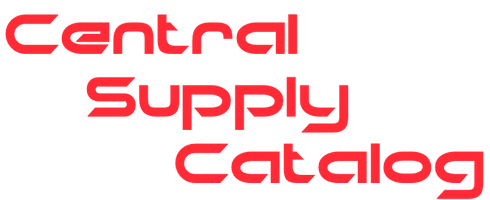
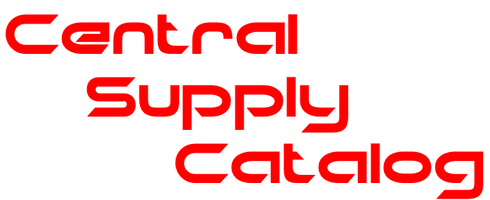
Restore stylized home title bitmap

Changed region(s): [[0.3367, 0.72, 1.0, 1.0], [0.1531, 0.36, 0.7347, 0.69], [0.0, 0.06, 0.6122, 0.27]]

diff --git a/src/css/main.css b/src/css/main.css
@@ -734,7 +734,7 @@ main .hero-section {
     height: 50vh;
   }
 }
-main .hero-section .hero-title {
+main .hero-section .hero-image {
   border: 4px solid #ccc;
   background: rgba(0, 0, 0, 0.5);
   border-radius: 1rem;
@@ -750,23 +750,9 @@ main .hero-section .hero-title {
     width: 80%;
   }
 }
-main .hero-section .hero-title h1 {
-  color: var(--csc-red);
-  font-family: Roboto, Arial, Helvetica, sans-serif;
-  font-size: 2rem;
-  font-weight: 700;
-  line-height: 1.05;
-  text-align: center;
-}
-@media screen and (min-width: 48rem) {
-  main .hero-section .hero-title h1 {
-    font-size: 3.5rem;
-  }
-}
-@media screen and (min-width: 64rem) {
-  main .hero-section .hero-title h1 {
-    font-size: 5rem;
-  }
+main .hero-section img {
+  width: 100%;
+  height: auto;
 }
 main .hero-section .subtitle {
   margin-top: 3rem;
